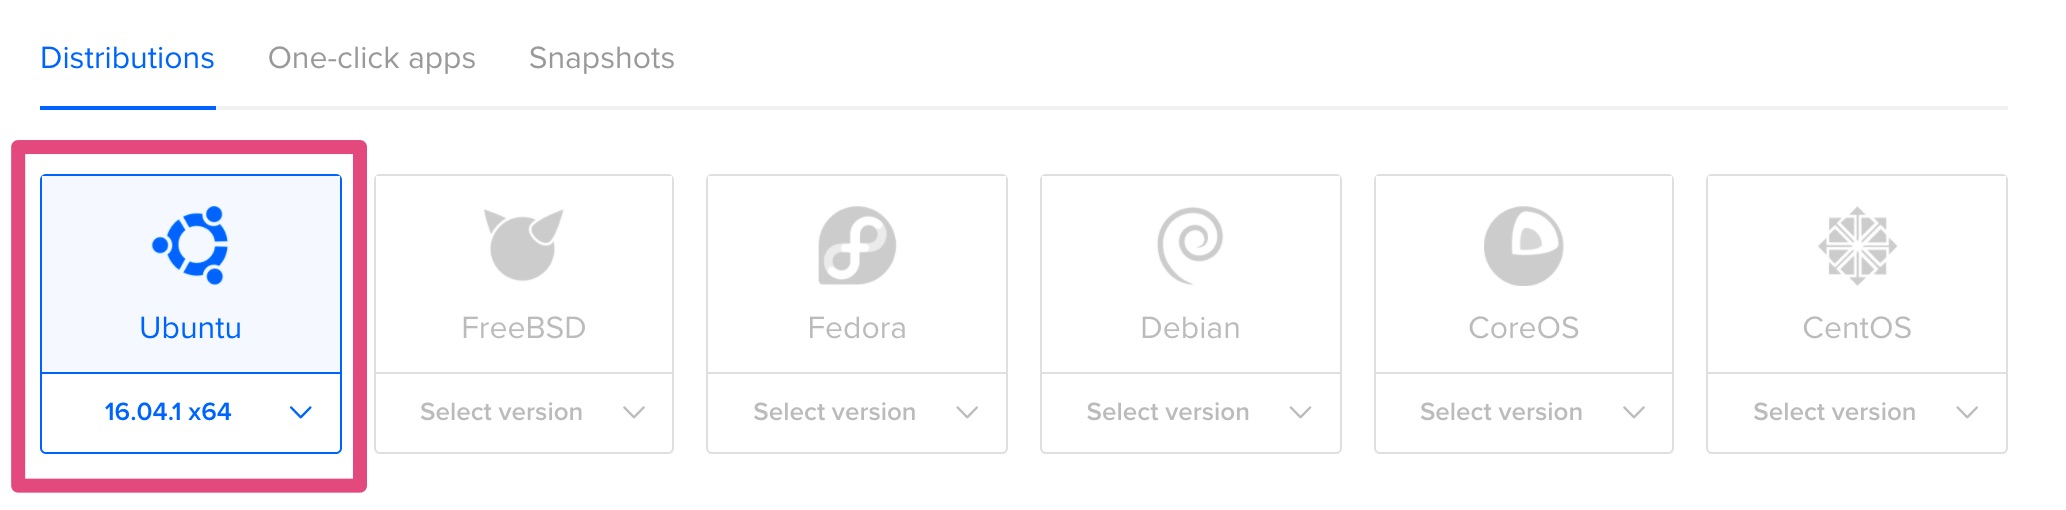
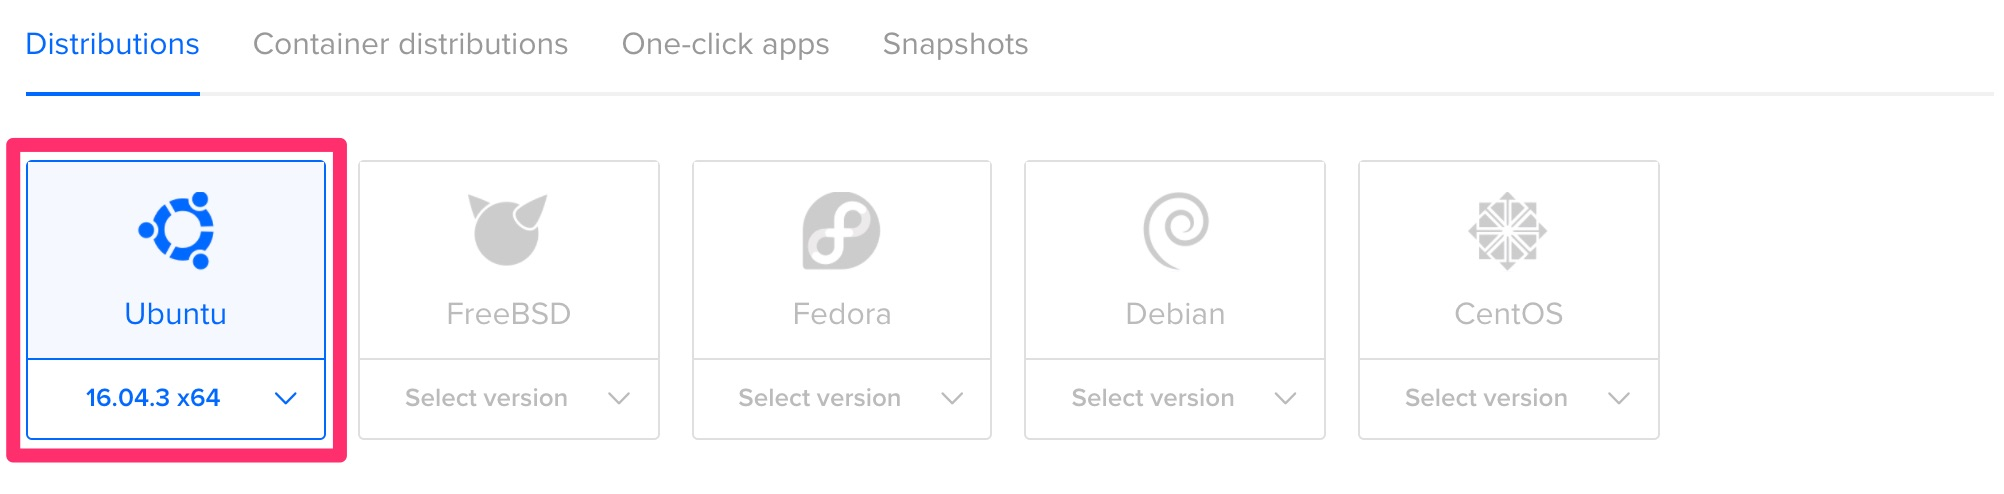
fix(digitalocean): use new image size (s-1vcpu-1gb instead of 512mb)

diff --git a/server/template/index.js b/server/template/index.js
@@ -54,7 +54,7 @@ const template = {
             type: 'digitalocean',
             token: 'YOUR PERSONAL TOKEN',
             region: 'YOUR REGION (could be: lon1)',
-            size: '512mb',
+            size: 's-1vcpu-1gb',
             sshKeyName: 'YOUR SSH KEY (could be: mykey)',
             imageName: 'YOUR SNAPSHOT NAME (could be: forward-proxy)',
         },

diff --git a/docs/standard/providers/digitalocean/create_image/index.rst b/docs/standard/providers/digitalocean/create_image/index.rst
@@ -12,7 +12,7 @@ Go to `DigitalOcean console`_.
 Step 2: Create a new droplet
 ============================
 
-Click on *Create Droplet*
+Click on *Create* and *Droplets*
 
 .. image:: step_1.jpg
 
@@ -20,12 +20,12 @@ Click on *Create Droplet*
 Step 3: Change the configuration of droplet
 ===========================================
 
-Choose an image *Ubuntu 16.04.1 x64*:
+Choose an image *Ubuntu 16.04.3 x64*:
 
 .. image:: step_2a.jpg
 
 
-Choose the smallest size:
+Choose the smallest size on *Standard Droplets*:
 
 .. image:: step_2b.jpg
 

diff --git a/docs/standard/config/index.rst b/docs/standard/config/index.rst
@@ -57,7 +57,7 @@ This command creates a configuration example, with 4 providers::
                 "type": "digitalocean",
                 "token": "YOUR PERSONAL TOKEN",
                 "region": "YOUR REGION (could be: lon1)",
-                "size": "512mb",
+                "size": "s-1vcpu-1gb (previous: 512mb)",
                 "sshKeyName": "YOUR SSH KEY (could be: mykey)",
                 "imageName": "YOUR SNAPSHOT NAME (could be: forward-proxy)"
             },

diff --git a/docs/standard/providers/digitalocean/index.rst b/docs/standard/providers/digitalocean/index.rst
@@ -41,7 +41,7 @@ Open :code:`conf.json`::
 
       "token": "YOUR PERSONAL TOKEN",
       "region": "YOUR REGION (could be: lon1)",
-      "size": "512mb",
+      "size": "s-1vcpu-1gb (previous: 512mb)",
       "sshKeyName": "YOUR SSH KEY (could be: mykey)",
       "imageName": "YOUR SNAPSHOT NAME (could be: forward-proxy)"
     ]

diff --git a/docs/changelog.rst b/docs/changelog.rst
@@ -3,6 +3,15 @@ Changelog
 =========
 
 
+X.X.X
+=====
+
+Bug fixes
+---------
+
+- **digitalocean**: use new image size type
+
+
 3.0.0
 =====
 
